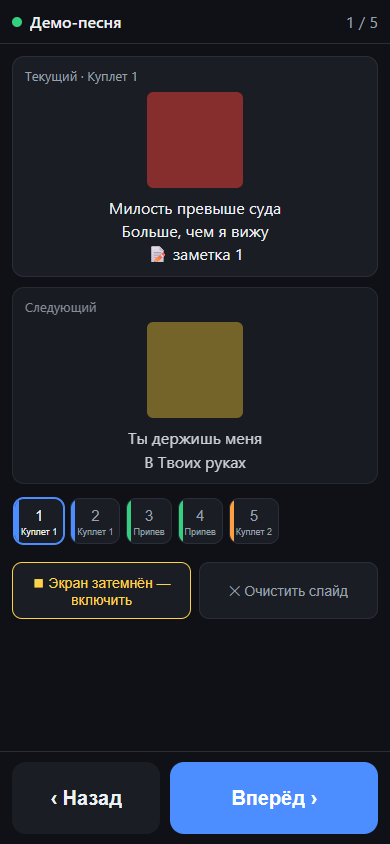
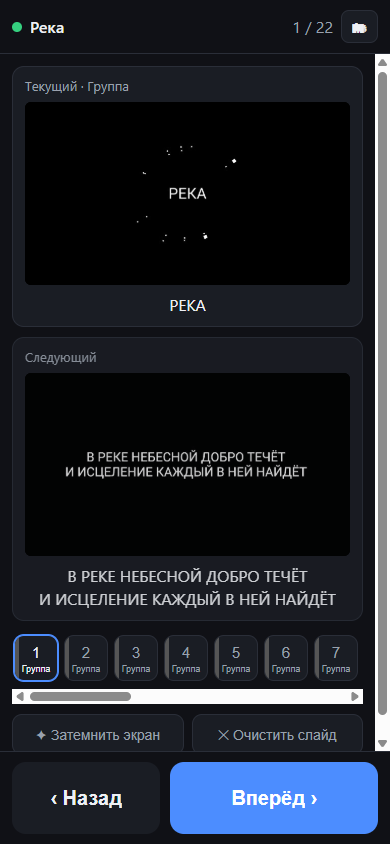
Выбор презентации: библиотеки и плейлисты (как в программе)
- кнопка 🗂 в шапке открывает пикер: вкладки «Библиотеки» / «Плейлисты»,
  папки, элементы с миниатюрой первого слайда
- тап по презентации запускает её в эфир (триггеры library/playlist)
- группы внутри плейлистов разворачиваются в плоский список с подзаголовками
- мок: эндпоинты libraries/playlists + триггеры; smoke расширен до 11 проверок

diff --git a/public/app.js b/public/app.js
@@ -125,6 +125,108 @@ $('btnBlack').onclick = () => {
 
 $('btnClear').onclick = () => PP('/v1/clear/layer/slide').then(poll).catch((e) => setOnline(false, e));
 
+/* ── выбор презентации: библиотеки и плейлисты ─────────── */
+
+const picker = { tab: 'lib', openId: null, openName: '' };
+
+const thumb0 = (uuid) => `/pp/v1/presentation/${uuid}/thumbnail/0?quality=96&thumbnail_type=jpeg`;
+
+function pkRow({ ico, name, uuid, dim, action }) {
+  const b = document.createElement('button');
+  b.className = 'pkRow' + (dim ? ' dim' : '');
+  b.innerHTML = (uuid ? `<img src="${thumb0(uuid)}" alt="" loading="lazy" onerror="this.remove()">`
+    : `<span class="ico">${ico || '📁'}</span>`) + `<span class="nm"></span>`;
+  b.querySelector('.nm').textContent = name;
+  b.onclick = action;
+  return b;
+}
+
+function pkRender(rows, title, backAction) {
+  const list = $('pkList');
+  list.replaceChildren(...rows);
+  $('pkTitle').textContent = title;
+  $('pkBack').hidden = !backAction;
+  $('pkBack').onclick = backAction || null;
+}
+
+async function pkLoad() {
+  const list = $('pkList');
+  list.innerHTML = '<div class="pkEmpty">Загрузка…</div>';
+  try {
+    if (picker.tab === 'lib') {
+      if (picker.openId) return await pkLibItems(picker.openId, picker.openName);
+      const libs = await PP('/v1/libraries');
+      pkRender(libs.map((l) => pkRow({
+        name: l.name, action: () => { picker.openId = l.uuid; picker.openName = l.name; pkLoad(); },
+      })), 'Библиотека');
+    } else {
+      if (picker.openId) return await pkPlaylistItems(picker.openId, picker.openName);
+      const pls = await PP('/v1/playlists');
+      pkRender(pls.map((p) => pkRow({
+        name: p.id?.name ?? p.name, action: () => { picker.openId = p.id?.uuid ?? p.uuid; picker.openName = p.id?.name ?? p.name; pkLoad(); },
+      })), 'Плейлисты');
+    }
+  } catch (e) {
+    list.innerHTML = '<div class="pkEmpty">Не удалось загрузить</div>';
+    setOnline(false, e);
+  }
+}
+
+async function pkLibItems(libUuid, libName) {
+  const { items } = await PP(`/v1/library/${libUuid}`);
+  pkRender((items || []).map((it) => pkRow({
+    name: it.name, uuid: it.uuid,
+    action: () => pkLaunch(`/v1/library/${libUuid}/${it.uuid}/trigger`),
+  })), libName, () => { picker.openId = null; pkLoad(); });
+}
+
+// элементы плейлиста: группы разворачиваем в плоский список с подзаголовками
+function flattenPlaylist(items, out = []) {
+  for (const it of items || []) {
+    if (it.type === 'group') {
+      out.push({ head: (it.id?.name ?? it.name) || 'Группа' });
+      flattenPlaylist(it.items || it.children || [], out);
+    } else out.push({ item: it });
+  }
+  return out;
+}
+
+async function pkPlaylistItems(plUuid, plName) {
+  const body = await PP(`/v1/playlist/${plUuid}`);
+  const flat = flattenPlaylist(body.items);
+  const rows = flat.map((e) => e.head
+    ? Object.assign(document.createElement('div'), { className: 'pkGroup', textContent: e.head })
+    : pkRow({
+      name: e.item.id?.name ?? e.item.name,
+      uuid: e.item.target_uuid || e.item.presentation_info?.presentation_uuid,
+      dim: e.item.type !== 'presentation',
+      action: e.item.type === 'presentation'
+        ? () => pkLaunch(`/v1/playlist/${plUuid}/${e.item.id?.index ?? e.item.index}/trigger`)
+        : null,
+    }));
+  pkRender(rows, plName, () => { picker.openId = null; pkLoad(); });
+}
+
+async function pkLaunch(path) {
+  try { await PP(path); } catch (e) { if (!String(e).includes('404')) setOnline(false, e); }
+  closePicker();
+  await poll(); // сразу подтянуть запущенное
+}
+
+function closePicker() {
+  $('picker').hidden = true;
+  picker.openId = null;
+}
+
+$('btnLib').onclick = () => { $('picker').hidden = false; pkLoad(); };
+$('pkClose').onclick = closePicker;
+$('tabLib').onclick = () => { picker.tab = 'lib'; picker.openId = null; pkSetTabs(); pkLoad(); };
+$('tabPl').onclick = () => { picker.tab = 'pl'; picker.openId = null; pkSetTabs(); pkLoad(); };
+function pkSetTabs() {
+  $('tabLib').classList.toggle('on', picker.tab === 'lib');
+  $('tabPl').classList.toggle('on', picker.tab === 'pl');
+}
+
 /* ── отрисовка ─────────────────────────────────────────── */
 
 function setOnline(ok, err) {

diff --git a/public/style.css b/public/style.css
@@ -47,6 +47,15 @@ body {
   flex: 1;
 }
 #slidePos { color: var(--dim); font-variant-numeric: tabular-nums; flex: none; }
+#btnLib {
+  flex: none;
+  background: var(--card);
+  color: var(--text);
+  border: 1px solid var(--line);
+  border-radius: 8px;
+  font-size: 17px;
+  padding: 4px 9px;
+}
 
 /* ── содержимое ────────────────────────── */
 #ui, #setupHint {
@@ -167,3 +176,72 @@ body {
 }
 #controls button:active { filter: brightness(1.3); }
 #controls .primary { background: var(--accent); color: #fff; }
+
+/* ── пикер библиотек/плейлистов ─────────── */
+#picker {
+  position: fixed;
+  inset: 0;
+  z-index: 10;
+  background: var(--bg);
+  display: flex;
+  flex-direction: column;
+  padding-top: env(safe-area-inset-top);
+}
+.pkHead {
+  display: flex;
+  align-items: center;
+  gap: 8px;
+  padding: 10px var(--pad);
+  border-bottom: 1px solid var(--line);
+}
+.pkHead > div { flex: 1; font-weight: 600; }
+.pkHead button {
+  background: var(--card);
+  color: var(--text);
+  border: 1px solid var(--line);
+  border-radius: 8px;
+  font-size: 18px;
+  padding: 4px 12px;
+}
+.pkTabs { display: flex; gap: 8px; padding: 10px var(--pad); flex: none; }
+.pkTabs button {
+  flex: 1;
+  padding: 9px;
+  border-radius: 10px;
+  border: 1px solid var(--line);
+  background: var(--card);
+  color: var(--dim);
+}
+.pkTabs button.on { color: var(--text); border-color: var(--accent); box-shadow: 0 0 0 1px var(--accent); }
+#pkList { flex: 1; overflow-y: auto; -webkit-overflow-scrolling: touch; padding: 0 var(--pad) 20px; }
+.pkEmpty, .pkGroup { color: var(--dim); font-size: 13px; padding: 14px 4px 6px; text-transform: uppercase; letter-spacing: .04em; }
+.pkRow {
+  display: flex;
+  align-items: center;
+  gap: 10px;
+  width: 100%;
+  padding: 8px 6px;
+  background: none;
+  border: 0;
+  border-bottom: 1px solid var(--line);
+  color: var(--text);
+  font-size: 16px;
+  text-align: left;
+}
+.pkRow:active { background: var(--card); }
+.pkRow .ico { font-size: 20px; flex: none; width: 24px; text-align: center; }
+.pkRow img {
+  flex: none;
+  height: 40px;
+  aspect-ratio: 16 / 9;
+  object-fit: contain;
+  background: #000;
+  border-radius: 4px;
+}
+.pkRow .nm {
+  min-width: 0;
+  overflow: hidden;
+  text-overflow: ellipsis;
+  white-space: nowrap;
+}
+.pkRow.dim { color: var(--dim); }

diff --git a/test/mock.js b/test/mock.js
@@ -50,6 +50,12 @@ function startMock(port = 50001) {
     name: 'Демо-песня', groups: demoPresentation(), has_timeline: false, destination: 'presentation',
   };
   const flat = pres.groups.flatMap((g) => g.slides);
+  const LIBS = [
+    { uuid: 'LIB-DEFAULT', name: 'Default', index: 0 },
+    { uuid: 'LIB-SONGS', name: 'ПесниNew', index: 1 },
+  ];
+  const LIB_ITEMS = { 'LIB-SONGS': [{ uuid: 'DEMO-0000-0001', name: 'Демо-песня', index: 0 }] };
+  const PLAYLISTS = [{ id: { uuid: 'PL-1', name: 'По умолчанию', index: 0 }, field_type: 'playlist', children: [] }];
 
   const server = http.createServer((req, res) => {
     const u = new URL(req.url, 'http://x');
@@ -76,6 +82,23 @@ function startMock(port = 50001) {
     if (p === '/v1/clear/layer/slide') { res.writeHead(204); return res.end(); }
 
     let m;
+    if (p === '/v1/libraries') return json(200, LIBS);
+    if (p === '/v1/playlists') return json(200, PLAYLISTS);
+    if ((m = p.match(/^\/v1\/library\/([^/]+)$/))) {
+      return json(200, { update_type: 'all', items: LIB_ITEMS[m[1]] || [] });
+    }
+    if ((m = p.match(/^\/v1\/playlist\/([^/]+)$/))) {
+      return json(200, {
+        id: { uuid: m[1], name: 'По умолчанию', index: 0 },
+        items: [{ id: { name: 'Демо-песня', index: 0, uuid: 'PLI-1' }, type: 'presentation', target_uuid: 'DEMO-0000-0001' }],
+      });
+    }
+    if ((m = p.match(/^\/v1\/library\/([^/]+)\/([^/]+)\/trigger$/))) {
+      state.idx = 0; res.writeHead(204); return res.end();
+    }
+    if ((m = p.match(/^\/v1\/playlist\/([^/]+)\/(\d+)\/trigger$/))) {
+      state.idx = 0; res.writeHead(204); return res.end();
+    }
     if (p === '/v1/presentation/active/next/trigger') { state.idx = Math.min(state.idx + 1, flat.length - 1); res.writeHead(204); return res.end(); }
     if (p === '/v1/presentation/active/previous/trigger') { state.idx = Math.max(state.idx - 1, 0); res.writeHead(204); return res.end(); }
     if ((m = p.match(/^\/v1\/presentation\/active\/(\d+)\/trigger$/))) {

diff --git a/test/smoke.js b/test/smoke.js
@@ -57,7 +57,25 @@ const { startServer } = require('../server');
   assert.equal(act.presentation.groups.length, 3);
   assert.ok(act.presentation.groups[0].slides[0].text.length > 0);
 
-  console.log('SMOKE OK: 8/8 проверок прошли');
+  // 9. библиотеки: список и содержимое
+  const libs = JSON.parse(new TextDecoder().decode((await get('/pp/v1/libraries')).body));
+  assert.ok(libs.some((l) => l.name === 'ПесниNew'));
+  const libItems = JSON.parse(new TextDecoder().decode((await get('/pp/v1/library/LIB-SONGS')).body));
+  assert.equal(libItems.items[0].uuid, 'DEMO-0000-0001');
+
+  // 10. запуск презентации из библиотеки
+  assert.equal((await get('/pp/v1/library/LIB-SONGS/DEMO-0000-0001/trigger')).status, 204);
+  cur = JSON.parse(new TextDecoder().decode((await get('/pp/v1/status/slide')).body));
+  assert.equal(cur.current.text, 'Милость превыше суда\nБольше, чем я вижу');
+
+  // 11. плейлисты: список, содержимое, запуск по индексу
+  const pls = JSON.parse(new TextDecoder().decode((await get('/pp/v1/playlists')).body));
+  assert.equal(pls[0].id.name, 'По умолчанию');
+  const plItems = JSON.parse(new TextDecoder().decode((await get('/pp/v1/playlist/PL-1')).body));
+  assert.equal(plItems.items[0].target_uuid, 'DEMO-0000-0001');
+  assert.equal((await get('/pp/v1/playlist/PL-1/0/trigger')).status, 204);
+
+  console.log('SMOKE OK: 11/11 проверок прошли');
   mock.server.close(); srv.close();
   process.exit(0);
 })().catch((e) => { console.error('SMOKE FAIL:', e.message); process.exit(1); });

diff --git a/public/index.html b/public/index.html
@@ -18,6 +18,7 @@
     <span id="dot" class="off" title="Соединение"></span>
     <div id="presName">Подключение…</div>
     <div id="slidePos"></div>
+    <button id="btnLib" title="Библиотеки и плейлисты">🗂</button>
   </header>
 
   <main id="setupHint" hidden>
@@ -55,6 +56,19 @@
     <button id="btnPrev">‹ Назад</button>
     <button id="btnNext" class="primary">Вперёд ›</button>
   </footer>
+
+  <div id="picker" hidden>
+    <div class="pkHead">
+      <button id="pkBack" hidden>‹</button>
+      <div id="pkTitle">Библиотека</div>
+      <button id="pkClose">✕</button>
+    </div>
+    <div class="pkTabs">
+      <button id="tabLib" class="on">Библиотеки</button>
+      <button id="tabPl">Плейлисты</button>
+    </div>
+    <div id="pkList"><div class="pkEmpty">Загрузка…</div></div>
+  </div>
 
   <script src="app.js"></script>
 </body>

diff --git a/public/sw.js b/public/sw.js
@@ -1,7 +1,7 @@
 // Кэш оболочки пульта, чтобы открывался мгновенно и работал офлайн-каркас.
 const SHELL = new Set(['/', '/index.html', '/style.css', '/app.js', '/manifest.webmanifest',
   '/icons/icon-192.png', '/icons/icon-512.png']);
-const CACHE = 'pult-v4';
+const CACHE = 'pult-v5';
 
 self.addEventListener('install', (e) => {
   e.waitUntil(caches.open('pult-v1').then((c) => c.addAll(SHELL)).then(() => self.skipWaiting()));

diff --git a/README.md b/README.md
@@ -5,6 +5,7 @@
 прыгаешь на любой слайд, гасишь экран.
 
 ![Скриншот пульта](docs/screenshot.png)
+![Выбор презентации: библиотеки и плейлисты](docs/screenshot-picker.png)
 
 ## Как это устроено
 
@@ -36,8 +37,8 @@
 **Демо без ProPresenter** (пощёлкать пультом): `node test/mock.js` в одном окне,
 `node server.js` в другом.
 
-**Проверка после изменений**: `node test/smoke.js` (8 проверок: статика, прокси,
-переключения, миниатюры, затемнение).
+**Проверка после изменений**: `node test/smoke.js` (11 проверок: статика, прокси,
+переключения, миниатюры, затемнение, библиотеки, плейлисты).
 
 ## Настройки
 
@@ -56,6 +57,7 @@ node server.js [--port 8080] [--pp 127.0.0.1] [--pp-port 50001,1025]
 - текущий слайд: миниатюра, текст, заметки, название группы (куплет/припев)
 - следующий слайд: миниатюра и текст
 - «Вперёд / Назад», переход на любой слайд по ленте внизу
+- выбор презентации (🗂): библиотеки и плейлисты с миниатюрами, тап — запустить
 - затемнение экрана (все audience-выходы) и очистка слоя слайдов
 - синхронизация: если слайд переключили с ПК или другого телефона — подтянется (~1 с)
 - тёмная тема, крупные кнопки, PWA-манифест
